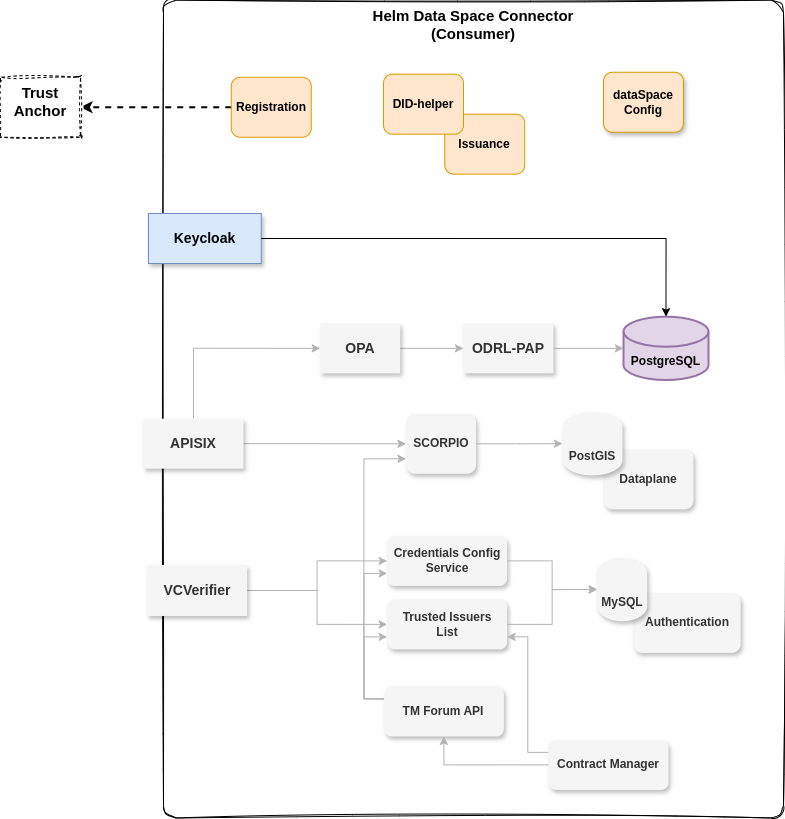
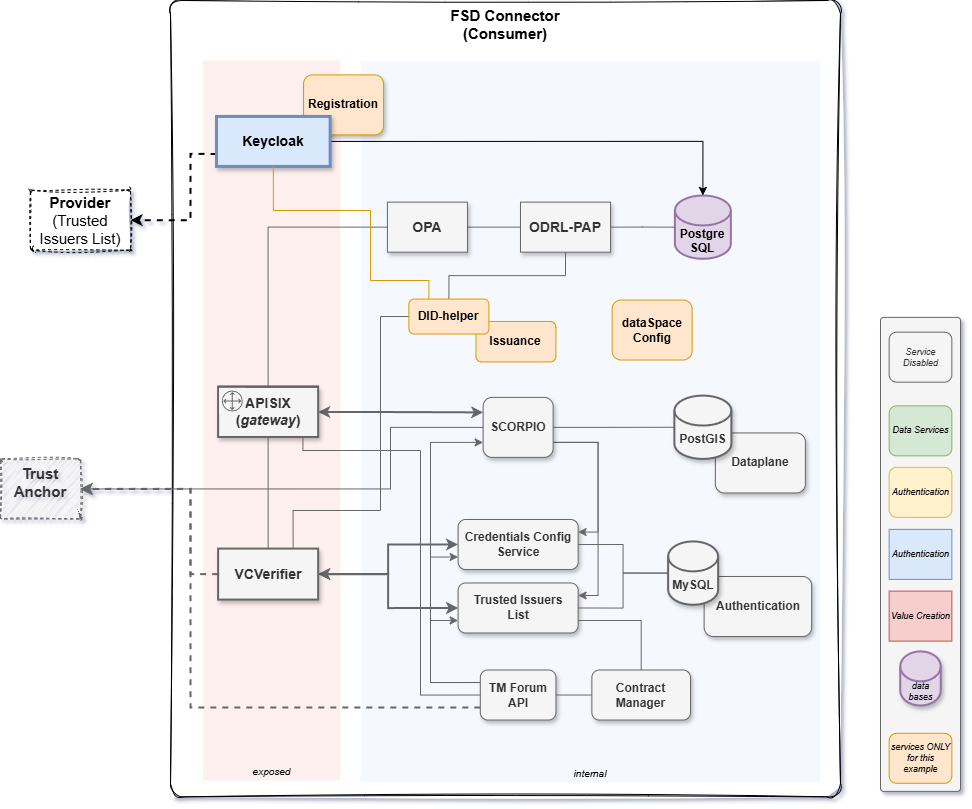
more detailed documentation for the FDS connector components

diff --git a/modules/fiware_ds_connector/README.md b/modules/fiware_ds_connector/README.md
@@ -1,36 +1,69 @@
-# FIWARE Data Space Connector
+# FIWARE Data Space (FDS) Ecosystem
 
-Latest version (2.x) of the [FIWARE Data Space Connector](https://github.com/FIWARE/data-space-connector).
+The FIWARE Data Space (FDS) is a set of components that allow the creation of a data space. The data space is a secure and trusted environment where data providers and consumers can exchange data in a secure and trusted way.
 
-## Components
+In the minimal version of the data space, we have the following components:
 
-- DS Trust Anchor (Operator)
-- DS Connector (Provider / Consumer)
+- **FIWARE Data Space Trust Anchor**: The trust anchor is the entity that manages the issuers and credentials for all participants in the data space.
 
-**Helm chart repo:** `https://fiware.github.io/data-space-connector/`
+- **FIWARE Data Space Connector (Provider/Consumer)**: The connector is the entity that provides and consumes data from the data space. The connector can be a provider, a consumer, or both. In this deployment, we use the latest version (2.x) of the [FIWARE Data Space Connector](https://github.com/FIWARE/data-space-connector).
+
+<!-- TABLE OF CONTENTS -->
+<details>
+  <summary>Table of Contents</summary>
+  <ol>
+    <li>
+        <a href="#trust-anchor-operator">Trust Anchor (Operator)</a>
+    </li>
+    <li>
+        <a href="#fds-connector">FDS Connector</a>
+        <ul>
+            <li><a href="#consumer">Consumer</a></li>
+            <li><a href="#provider-consumer">Provider/Consumer</a></li>
+        </ul>
+    </li>
+  </ol>
+</details>
 
 ## Trust Anchor (Operator)
 
-| Module       | Version |
-| ------------ | ------- |
-| trust-anchor | 0.2.0   |
+FIWARE has developed a Trust Anchor Operator as a Helm chart, that manages issuers and credentials for all participants in the data space. 
 
-**Helm code:** `https://github.com/FIWARE/data-space-connector/tree/main/charts/trust-anchor`
+| Module       | Version | Repository | Chart code |
+| ------------ | ------- | ---------- | ----------- |
+| trust-anchor | 0.2.0   | `https://fiware.github.io/data-space-connector/` | [GitHub](https://github.com/FIWARE/data-space-connector/tree/main/charts/trust-anchor) |
 
 ![arch_trust_anchor](./images/trust_anchor_arch.png)
 
-## Connector (Provider / Consumer)
+## FDS Connector
 
-| Module               | Version |
-| -------------------- | ------- |
-| data-space-connector | 7.3.3   |
+The FIWARE Data Space (FDS) Connector is a Helm chart that allows the deployment of a connector in the data space. Depending on the configuration, the connector can be: **provider/consumer** or **consumer**.
 
-**Helm code:** `https://github.com/FIWARE/data-space-connector/tree/main/charts/data-space-connector`
-
-### Provider
-
-![arch_provider](./images/provider_arch.png)
+| Module               | Version | Repository | Chart code |
+| -------------------- | ------- | ---------- | ---------- |
+| data-space-connector | 7.3.3   | `https://fiware.github.io/data-space-connector/` | [GitHub](https://github.com/FIWARE/data-space-connector/tree/main/charts/data-space-connector) |
 
 ### Consumer
 
+The consumer connector is an entity that only consumes data from the data space.
+
+More [info](https://github.com/FIWARE/data-space-connector/blob/main/doc/deployment-integration/local-deployment/LOCAL.MD#the-data-consumer).
+
+The following diagram shows the main blocks of the architecture of the consumer connector:
+
 ![arch_consumer](./images/consumer_arch.png)
+
+### Provider/Consumer
+
+The provider/consumer connector is an entity that provides and consumes data from the data space. This component is composed of four main blocks:
+
+1. **Data Services**: In this example we use Scorpio Broker (NGSI-LD Context Broker).
+2. **Authentication**: VCVerifier, CredentialsConfigService, TrustedIssuersList.
+3. **Authorization**: Gateway (APISIX), Open Policy Agent, ODRL-PAP.
+4. **Value Creation**: TMForum API, Contract Management.
+
+More [info](https://github.com/FIWARE/data-space-connector/blob/main/doc/deployment-integration/local-deployment/LOCAL.MD#the-data-provider).
+
+The following diagram shows the main blocks of the architecture of the provider/consumer connector:
+
+![arch_provider](./images/provider_arch.png)
